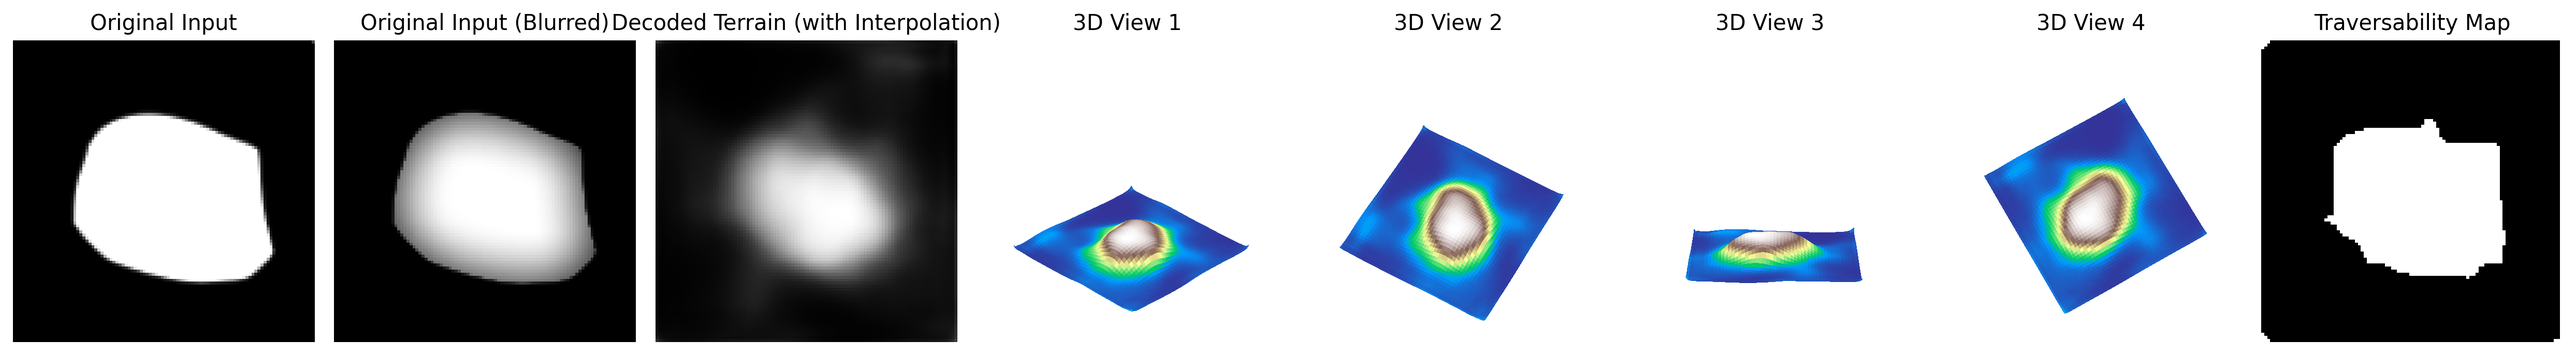
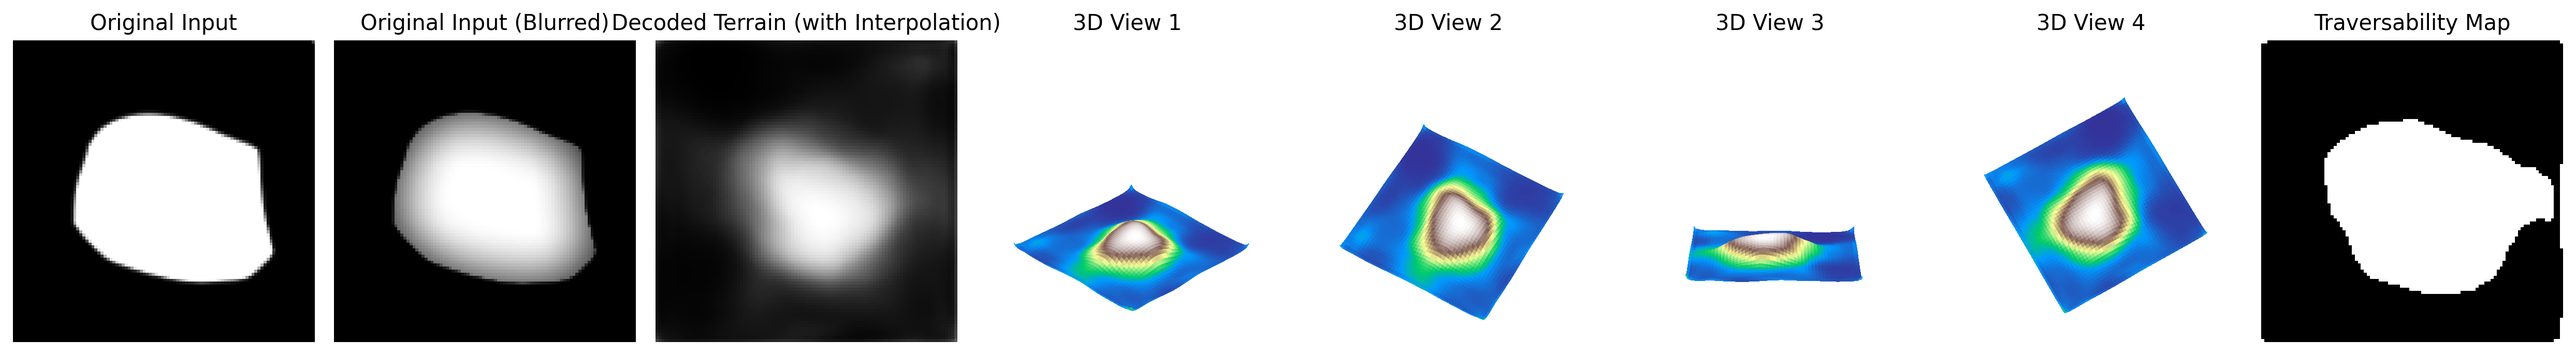
some nice examples of vae outputs

diff --git a/usage.py b/usage.py
@@ -35,7 +35,7 @@ model.load_state_dict(checkpoint["model_state_dict"])
 model.eval()
 
 # Load one input image from inputs/
-img_path = "example2.png"
+img_path = "example5.png"
 img = Image.open(os.path.join("inputs", img_path)).convert("L").resize((hpcfg.img_size, hpcfg.img_size))
 x = torch.tensor(np.array(img), dtype=torch.float32).unsqueeze(0).unsqueeze(0) / 255.0
 x_orig = x.clone()  # save copy
@@ -64,7 +64,7 @@ recon_t = recon.unsqueeze(0).unsqueeze(0).cpu()
 recon_mix = torch.lerp(x_blur, recon_t, 0.95).squeeze().cpu().numpy()
 
 # Now compute traversability map using BFS with a threshold
-def compute_traversable(grid, thresh=0.015, max_iters=1000):
+def compute_traversable(grid, thresh=0.1, max_iters=1000):
     """
     Vectorized flood fill on GPU.
     grid: 2D tensor [H,W] on any device, values in [0,1].
